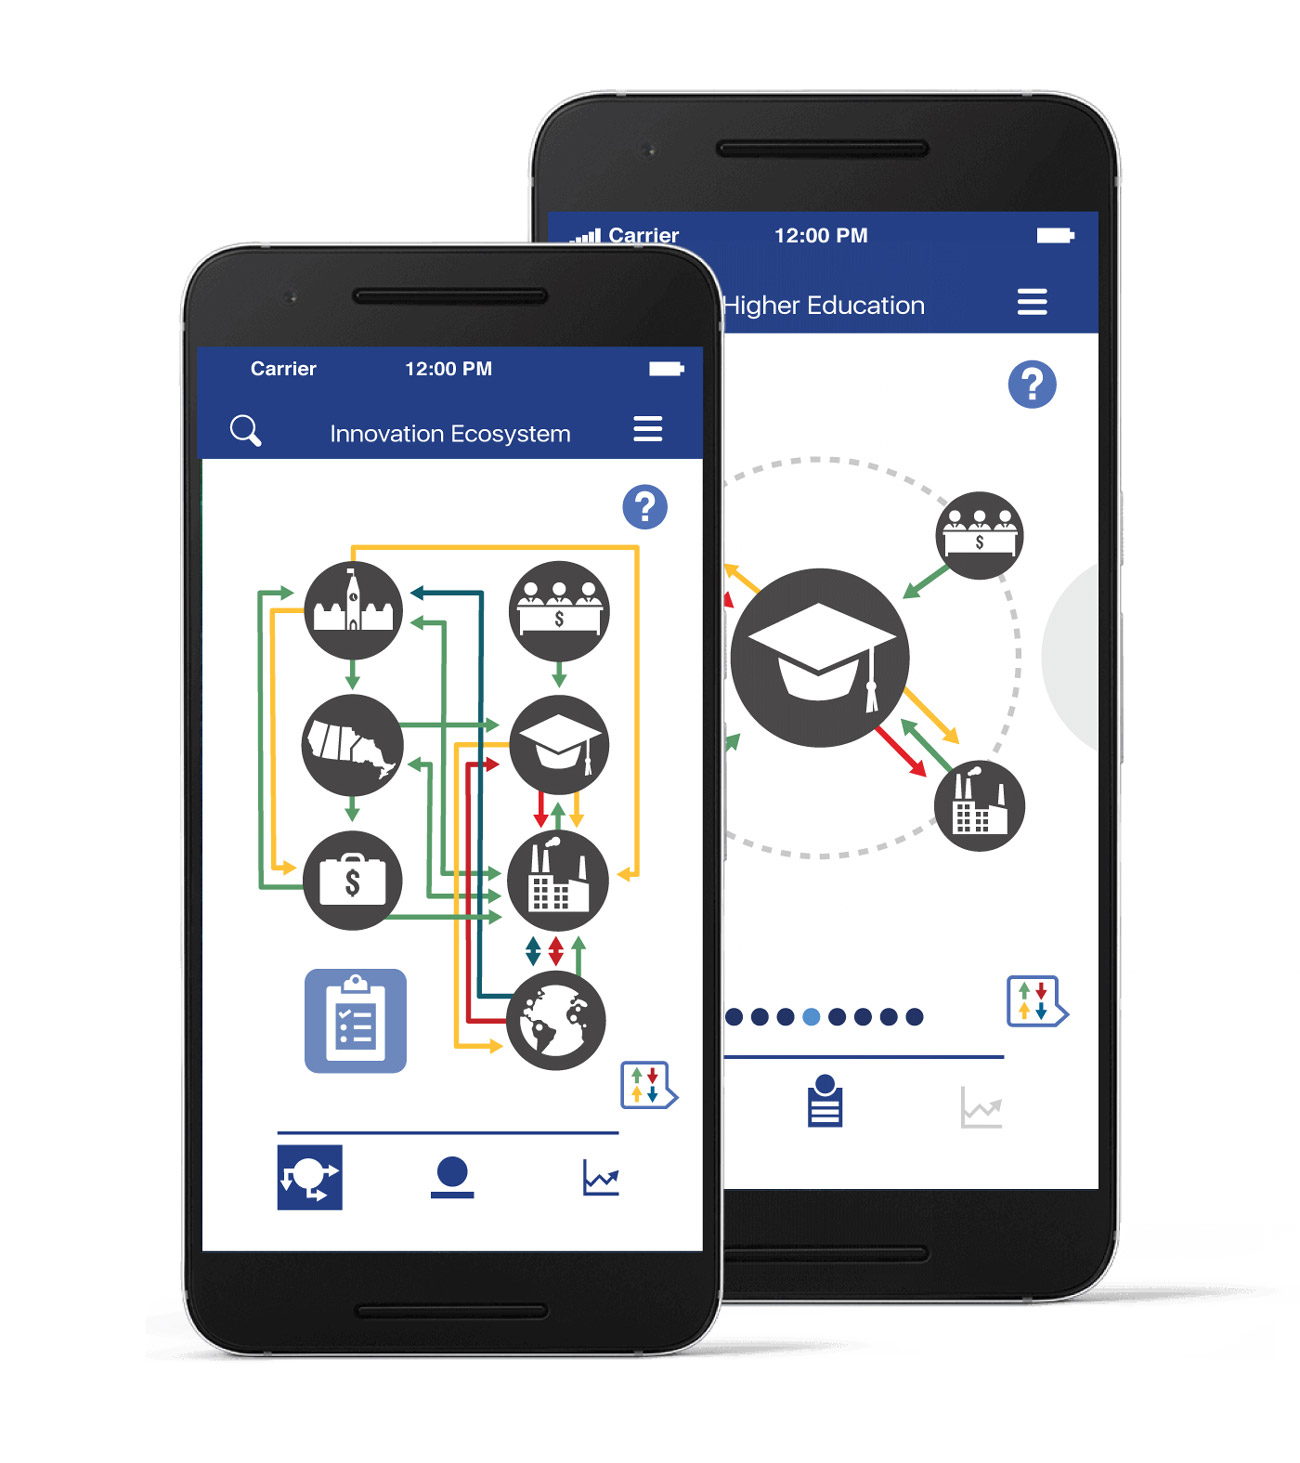
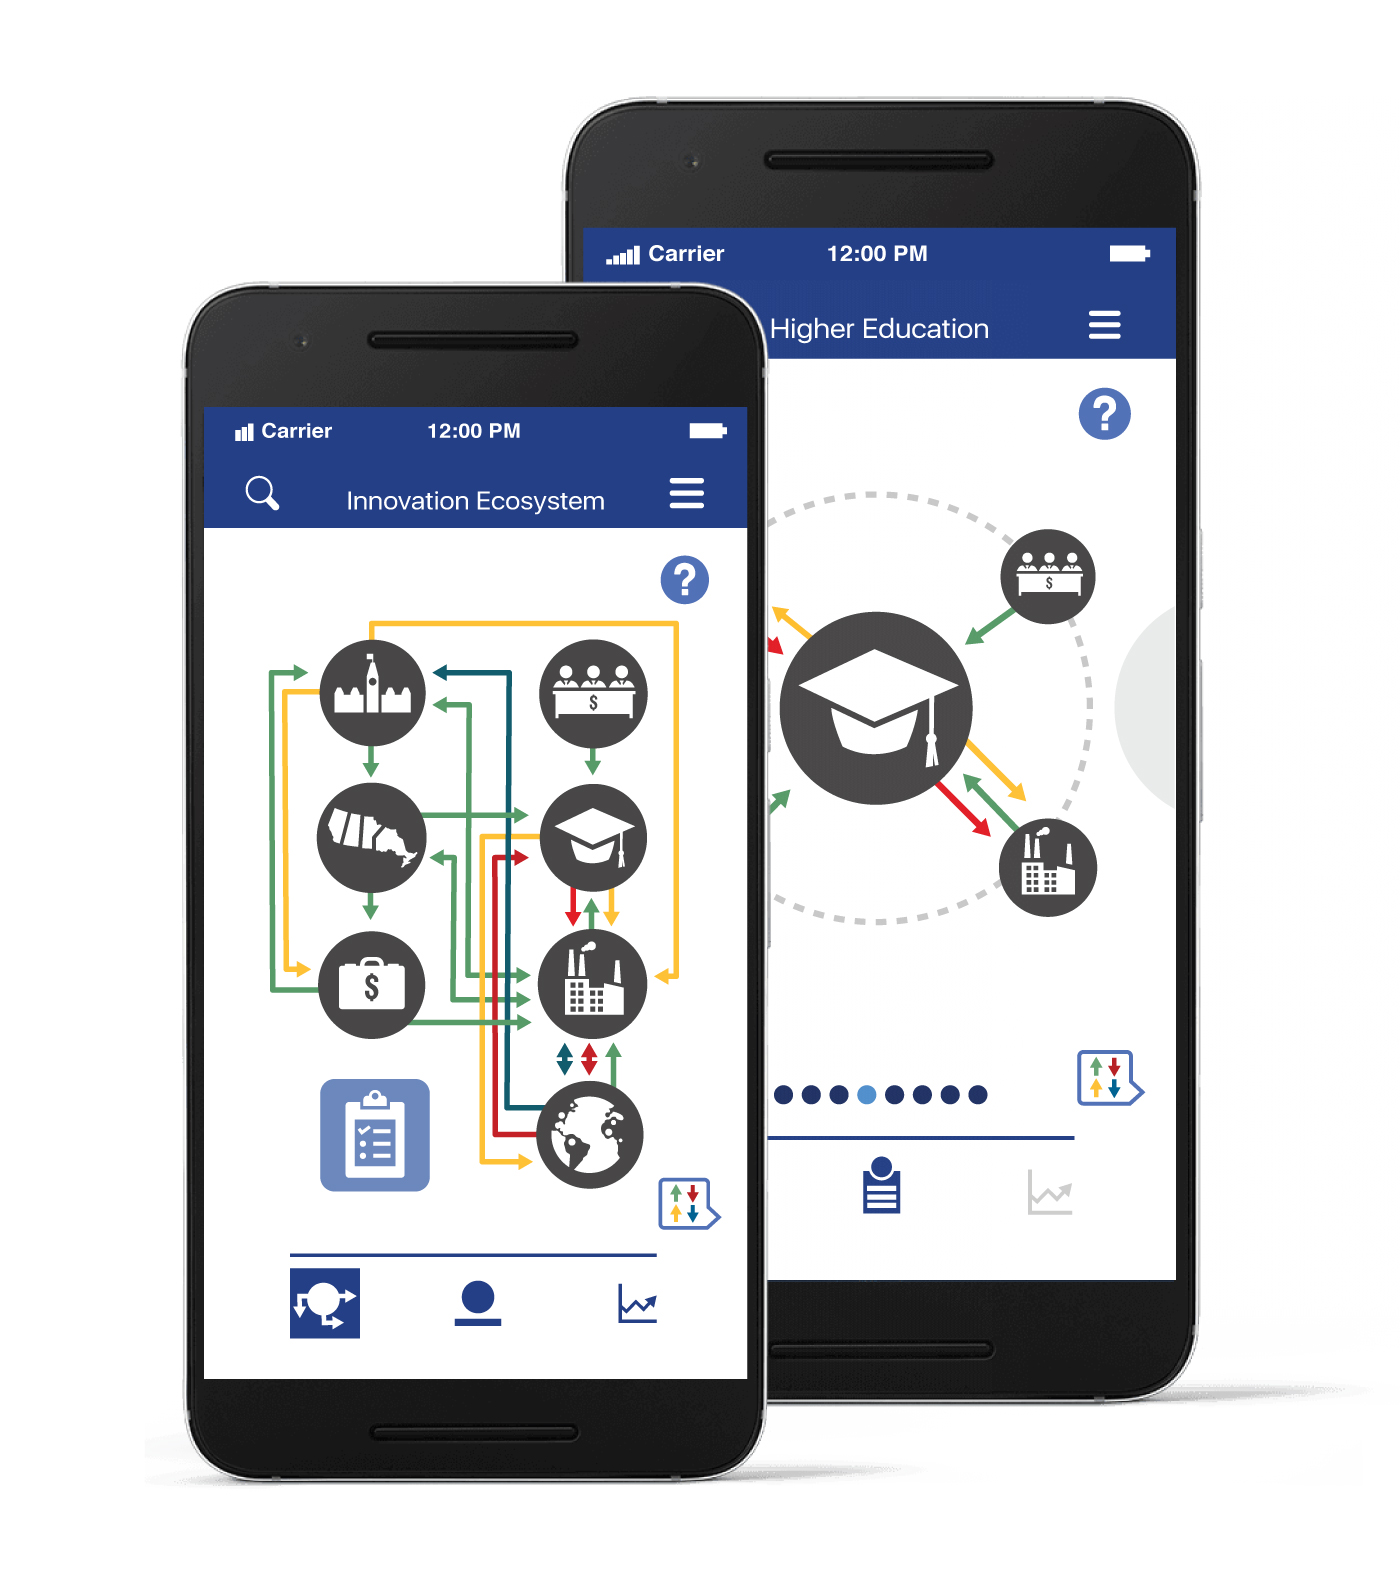
Replacing images on website

diff --git a/global-advantage.html b/global-advantage.html
@@ -36,20 +36,6 @@ title: Global Advantage App
       </div>
     </div>
 
-    <div class="grid">
-      <div class="unit xs-1 s-1 m-1 l-1-2 gutter">
-        <h3>CONCEPT SKETCHES</h3>
-      </div>
-    </div>
-
-    <div class="grid pad-b-2">
-      <div class="unit xs-1 s-1 m-1 l-1-2 gutter">
-        <img itemprop="image" src="http://placehold.it/400x400" alt="logo sketches">
-      </div>
-
-      <div class="unit xs-1 s-1 m-1 l-1-2 gutter">
-        <img itemprop="image" src="http://placehold.it/400x400" alt="logo sketches">
-      </div>
     </div>
 
     <div class="grid">
@@ -61,15 +47,11 @@ title: Global Advantage App
 
     <div class="grid pad-b-2">
       <div class="unit xs-1 s-1 m-1 l-1-3 gutter">
-        <img itemprop="image" src="{{site.baseurl}}/images/global-mockup2.jpg" alt="Global Advantage mobile app on Android">
+        <img itemprop="image" src="{{site.baseurl}}/images/global-mockup2.png" alt="Global Advantage mobile app on Android">
       </div>
 
       <div class="unit xs-1 s-1 m-1 l-1-3 gutter">
         <img itemprop="image" src="{{site.baseurl}}/images/global-mockup.jpg" alt="Global Advantage mobile app on Android">
-      </div>
-
-      <div class="unit xs-1 s-1 m-1 l-1-3 gutter">
-        <img itemprop="image" src="http://placehold.it/400x400" alt="stationary set">
       </div>
     </div>
 
